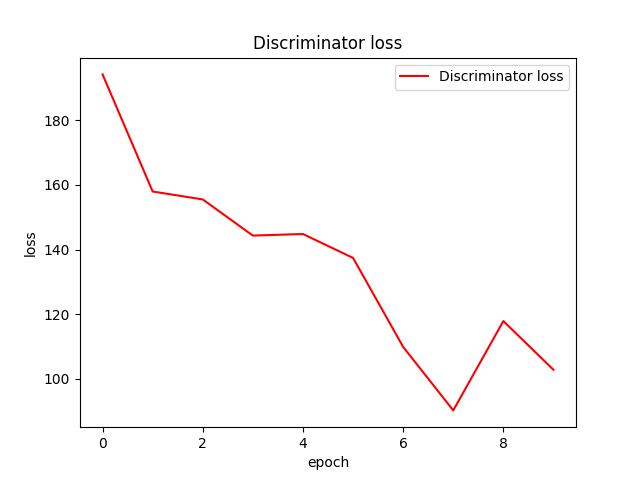
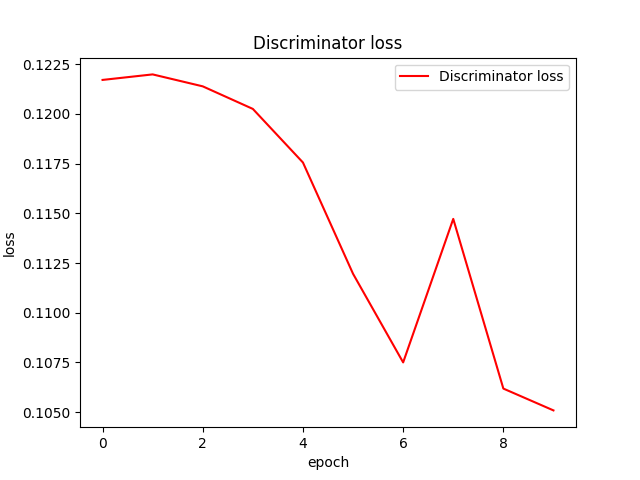
commit

diff --git a/train.py b/train.py
@@ -14,7 +14,7 @@ from generator_model import Generator
 import torch.nn.functional as F
 from torchvision import datasets, models, transforms
 import matplotlib.pyplot as plt
-
+import numpy as np
 def rgb_to_yuv(image: torch.Tensor) -> torch.Tensor:
     if not isinstance(image, torch.Tensor):
         raise TypeError(f"Input type is not a torch.Tensor. Got {type(image)}")
@@ -44,10 +44,6 @@ class LossNetwork(torch.nn.Module):
         super(LossNetwork, self).__init__()
         self.vgg_layers = vgg_model
         self.layer_name_mapping = {
-            '3': "relu1_2",
-            '8': "relu2_2",
-            '13': "relu3_2",
-            '22': "relu4_2",
             '31': "relu5_2"
         }
         self.weight =[1.0,1.0,1.0,1.0,1.0]
@@ -64,13 +60,13 @@ class LossNetwork(torch.nn.Module):
 
     def forward(self, output, gt):
         loss = []
-        consistant_loss = []
+        # consistant_loss = []
         output_features = self.output_features(output)
         gt_features = self.output_features(gt)
         for iter,(dehaze_feature, gt_feature,loss_weight) in enumerate(zip(output_features, gt_features,self.weight)):
             loss.append(F.mse_loss(dehaze_feature, gt_feature)*loss_weight)
-            consistant_loss.append(F.l1_loss(gram_matrix(dehaze_feature),gram_matrix(gt_feature))*loss_weight)
-        return sum(consistant_loss),sum(loss)  #/len(loss)
+            # consistant_loss.append(F.l1_loss(gram_matrix(dehaze_feature),gram_matrix(gt_feature))*loss_weight)
+        return sum(loss)  #/len(loss)
 
 def gram_matrix(input):
     a, b, c, d = input.size()  # a=batch size(=1)
@@ -91,7 +87,7 @@ def train_fn(disc_H, disc_Z, gen_Z, gen_H, loader, opt_disc, opt_gen, l1, mse, d
     loop = tqdm(loader, leave=True)
     D_loss_total = 0
     G_loss_total = 0
-
+    style_loss = 0
     for idx, (zebra, horse) in enumerate(loop):
         zebra = zebra.to(config.DEVICE)
         horse = horse.to(config.DEVICE)
@@ -143,25 +139,25 @@ def train_fn(disc_H, disc_Z, gen_Z, gen_H, loader, opt_disc, opt_gen, l1, mse, d
             if vgg_loss_val:
                 # print("using vgg loss")
                 # style texture loss
-                contant_zebra_loss, cycle1 = vgg_loss(fake_zebra, zebra)
-                contant_horse_loss, cycle2 = vgg_loss(fake_horse, horse)
+                # contant_zebra_loss, cycle1 = vgg_loss(fake_zebra, zebra)
+                # contant_horse_loss, cycle2 = vgg_loss(fake_horse, horse)
                 # cycle consistancy feature loss
-                contant1, cycle_zebra_loss = vgg_loss(cycle_zebra, zebra)
-                contant2, cycle_horse_loss = vgg_loss(cycle_horse, horse)
-                contant_zebra_loss *= 1000
-                contant_horse_loss *= 1000
-                cycle_zebra_loss *= 10
-                cycle_horse_loss *= 10
-                # print(cycle_zebra_loss)
-                # print(contant_zebra_loss)
+                style_zebra_loss = vgg_loss(fake_zebra, zebra)
+                style_horse_loss = vgg_loss(fake_horse, horse)
+                cycle_zebra_loss = l1(zebra, cycle_zebra)
+                cycle_horse_loss = l1(horse, cycle_horse)
+            
+                # contant_zebra_loss *= 1000
+                # contant_horse_loss *= 1000
+                
             else:
                 # print("using l1 loss")
                 # cycle consistancy normal loss
                 cycle_zebra_loss = l1(zebra, cycle_zebra)
                 cycle_horse_loss = l1(horse, cycle_horse)
             
-            color_zebra_loss = color_loss(cycle_zebra,zebra)
-            color_horse_loss = color_loss(cycle_horse,horse)
+            # color_zebra_loss = color_loss(cycle_zebra,zebra)
+            # color_horse_loss = color_loss(cycle_horse,horse)
             # print(color_horse_loss)
             # # print(color_zebra_loss.get_device())
             # cycle_zebra_loss += color_zebra_loss.cpu()
@@ -180,23 +176,22 @@ def train_fn(disc_H, disc_Z, gen_Z, gen_H, loader, opt_disc, opt_gen, l1, mse, d
                 G_loss = (
                     loss_G_Z
                     + loss_G_H
-                    + color_zebra_loss
-                    + color_horse_loss
-                    + contant_zebra_loss
-                    + contant_horse_loss
-                    + cycle_zebra_loss
-                    + cycle_horse_loss
+                    + style_zebra_loss * 100
+                    + style_horse_loss * 100
+                    + cycle_zebra_loss * 10
+                    + cycle_horse_loss * 10
                     # + cycle_zebra_loss * config.LAMBDA_CYCLE
                     # + cycle_horse_loss * config.LAMBDA_CYCLE
                     + identity_horse_loss * 0.5
                     + identity_zebra_loss * 0.5
                 )
+                style_loss += (float(style_zebra_loss * 100) + float(style_horse_loss * 100)) / 2
             else:
                 G_loss = (
                     loss_G_Z
                     + loss_G_H
-                    + color_zebra_loss
-                    + color_horse_loss
+                    # + color_zebra_loss
+                    # + color_horse_loss
                     # + contant_zebra_loss
                     # + contant_horse_loss
                     + cycle_zebra_loss * 10
@@ -206,7 +201,7 @@ def train_fn(disc_H, disc_Z, gen_Z, gen_H, loader, opt_disc, opt_gen, l1, mse, d
                     + identity_horse_loss * 0.5
                     + identity_zebra_loss * 0.5
                 )
-                G_loss_total += float(G_loss)
+            G_loss_total += float(G_loss)
         opt_gen.zero_grad()
         g_scaler.scale(G_loss).backward()
         g_scaler.step(opt_gen)
@@ -218,7 +213,7 @@ def train_fn(disc_H, disc_Z, gen_Z, gen_H, loader, opt_disc, opt_gen, l1, mse, d
 
         loop.set_postfix(H_real=H_reals/(idx+1), H_fake=H_fakes/(idx+1))
 
-    return D_loss_total / len(loop), G_loss_total / len(loop)
+    return D_loss_total / len(loop), G_loss_total / len(loop), style_loss / len(loop)
 
 def main():
     disc_H = Discriminator(in_channels=3).to(config.DEVICE)
@@ -277,6 +272,7 @@ def main():
     d_scaler = torch.cuda.amp.GradScaler()
     loss_D = []
     loss_G = []
+    loss_style = []
     vgg_model = models.vgg19(pretrained=False).features[:]
     vgg_model.load_state_dict(torch.load('vgg_loss.pth'),strict=False)
     vgg_model.eval()
@@ -284,29 +280,36 @@ def main():
         param.requires_grad = False 
     vgg_loss = LossNetwork(vgg_model)
     for epoch in range(config.NUM_EPOCHS):
-        avg_D_loss, avg_G_loss =  train_fn(disc_H, disc_Z, gen_Z, gen_H, loader, opt_disc, opt_gen, L1, mse, d_scaler, g_scaler,vgg_loss,vgg_loss_val=False)
+        avg_D_loss, avg_G_loss, style_loss =  train_fn(disc_H, disc_Z, gen_Z, gen_H, loader, opt_disc, opt_gen, L1, mse, d_scaler, g_scaler,vgg_loss,vgg_loss_val=True)
         loss_D.append(avg_D_loss)
         loss_G.append(avg_G_loss)
+        loss_style.append(style_loss)
         if config.SAVE_MODEL:
-            save_checkpoint(gen_H, opt_gen, filename="pre_trained\model\l1+color\genh.pth.tar")
-            save_checkpoint(gen_Z, opt_gen, filename="pre_trained\model\l1+color\genz.pth.tar")
-            save_checkpoint(disc_H, opt_disc, filename="pre_trained\model\l1+color\critich.pth.tar")
-            save_checkpoint(disc_Z, opt_disc, filename= "pre_trained\model\l1+color\criticz.pth.tar")
-    x_axix = range(config.NUM_EPOCHS)
-    plt.figure(0)
-    plt.title('Discriminator loss')
-    plt.plot(x_axix, loss_D, color='red',label='Discriminator loss')
-    plt.legend()
-    plt.xlabel('epoch')
-    plt.ylabel('loss')
-    plt.savefig('./result.png')
-    plt.figure(1)
-    plt.title('Generateor loss')
-    plt.plot(x_axix, loss_G, color='green',label='Generator loss')
-    plt.legend()
-    plt.xlabel('epoch')
-    plt.ylabel('loss')
-    plt.savefig('./result1.png')
+            save_checkpoint(gen_H, opt_gen, filename="pre_trained\model\l1+style\genh.pth.tar")
+            save_checkpoint(gen_Z, opt_gen, filename="pre_trained\model\l1+style\genz.pth.tar")
+            save_checkpoint(disc_H, opt_disc, filename="pre_trained\model\l1+style\critich.pth.tar")
+            save_checkpoint(disc_Z, opt_disc, filename= "pre_trained\model\l1+style\criticz.pth.tar")
+    loss_D = np.array(loss_D)
+    loss_G = np.array(loss_G)
+    style_loss = np.array(style_loss)
+    np.savetxt('loss_D.txt', loss_D)
+    np.savetxt('loss_G.txt', loss_G)
+    np.savetxt('style_loss.txt', style_loss)
+    # x_axix = range(config.NUM_EPOCHS)
+    # plt.figure(0)
+    # plt.title('Discriminator loss')
+    # plt.plot(x_axix, loss_D, color='red',label='Discriminator loss')
+    # plt.legend()
+    # plt.xlabel('epoch')
+    # plt.ylabel('loss')
+    # plt.savefig('./result.png')
+    # plt.figure(1)
+    # plt.title('Generateor loss')
+    # plt.plot(x_axix, loss_G, color='green',label='Generator loss')
+    # plt.legend()
+    # plt.xlabel('epoch')
+    # plt.ylabel('loss')
+    # plt.savefig('./result1.png')
 
 
 if __name__ == "__main__":

diff --git a/test.py b/test.py
@@ -19,39 +19,42 @@ import torch
 import albumentations as A
 from albumentations.pytorch import ToTensorV2
 
-gen_Z = Generator(img_channels=3, num_residuals=9).to(config.DEVICE)
-gen_H = Generator(img_channels=3, num_residuals=9).to(config.DEVICE)
-opt_gen = optim.Adam(
-    list(gen_Z.parameters()) + list(gen_H.parameters()),
-    lr=config.LEARNING_RATE,
-    betas=(0.5, 0.999),
-)
-load_checkpoint(
-    "pre_trained\model\l1+color\genh.pth.tar", gen_H, opt_gen, config.LEARNING_RATE,
-)
-load_checkpoint(
-   "pre_trained\model\l1+color\genz.pth.tar", gen_Z, opt_gen, config.LEARNING_RATE,
-)
-zebra_path = "test/girl.jpg"
-horse_path = "test/girl.jpg"
+# gen_Z = Generator(img_channels=3, num_residuals=9).to(config.DEVICE)
+# gen_H = Generator(img_channels=3, num_residuals=9).to(config.DEVICE)
+# opt_gen = optim.Adam(
+#     list(gen_Z.parameters()) + list(gen_H.parameters()),
+#     lr=config.LEARNING_RATE,
+#     betas=(0.5, 0.999),
+# )
+# load_checkpoint(
+#     "pre_trained/model/l1+color+style/genh.pth.tar", gen_H, opt_gen, config.LEARNING_RATE,
+# )
+# load_checkpoint(
+#    "pre_trained/model/l1+color+style/genz.pth.tar", gen_Z, opt_gen, config.LEARNING_RATE,
+# )
+# zebra_path = "test/girl.jpg"
+# horse_path = "test/girl.jpg"
 
-zebra_img = np.array(Image.open(zebra_path).convert("RGB"))
-horse_img = np.array(Image.open(horse_path).convert("RGB"))
+# zebra_img = np.array(Image.open(zebra_path).convert("RGB"))
+# horse_img = np.array(Image.open(horse_path).convert("RGB"))
 
 
-transforms = A.Compose(
-    [
-        A.Resize(width=256, height=256),
-        A.Normalize(mean=[0.5, 0.5, 0.5], std=[0.5, 0.5, 0.5], max_pixel_value=255),
-        ToTensorV2(),
-     ],
-    additional_targets={"image0": "image"},
-)
-augmentations = transforms(image=zebra_img, image0=horse_img)
-zebra_img = augmentations["image"]
-horse_img = augmentations["image0"]
-horse_img = horse_img.to(config.DEVICE)
-arcane_chongyu = gen_H(horse_img)
-save_image(arcane_chongyu*0.5+0.5, f"arcane_girl.png")
-real_chongyu = gen_Z(arcane_chongyu)
-save_image(real_chongyu*0.5+0.5, f"real_girl.png")
+# transforms = A.Compose(
+#     [
+#         A.Resize(width=256, height=256),
+#         A.Normalize(mean=[0.5, 0.5, 0.5], std=[0.5, 0.5, 0.5], max_pixel_value=255),
+#         ToTensorV2(),
+#      ],
+#     additional_targets={"image0": "image"},
+# )
+# augmentations = transforms(image=zebra_img, image0=horse_img)
+# zebra_img = augmentations["image"]
+# horse_img = augmentations["image0"]
+# horse_img = horse_img.to(config.DEVICE)
+# arcane_chongyu = gen_H(horse_img)
+# save_image(arcane_chongyu*0.5+0.5, f"pre_trained/l1+color+style/arcane_girl.png")
+# real_chongyu = gen_Z(arcane_chongyu)
+# save_image(real_chongyu*0.5+0.5, f"pre_trained/l1+color+style/real_girl.png")
+x = [1,2,3,4]
+x = np.array(x)
+np.savetxt("x.txt",x)

diff --git a/config.py b/config.py
@@ -8,10 +8,10 @@ VAL_DIR = "arcane_face_data/val"
 BATCH_SIZE = 1
 LEARNING_RATE = 1e-4
 LAMBDA_IDENTITY = 0.0
-LAMBDA_CYCLE = 10
+LAMBDA_CYCLE = 15
 NUM_WORKERS = 4
 NUM_EPOCHS = 10
-LOAD_MODEL = True
+LOAD_MODEL = False
 SAVE_MODEL = True
 CHECKPOINT_GEN_H = "genh.pth.tar"
 CHECKPOINT_GEN_Z = "genz.pth.tar"
